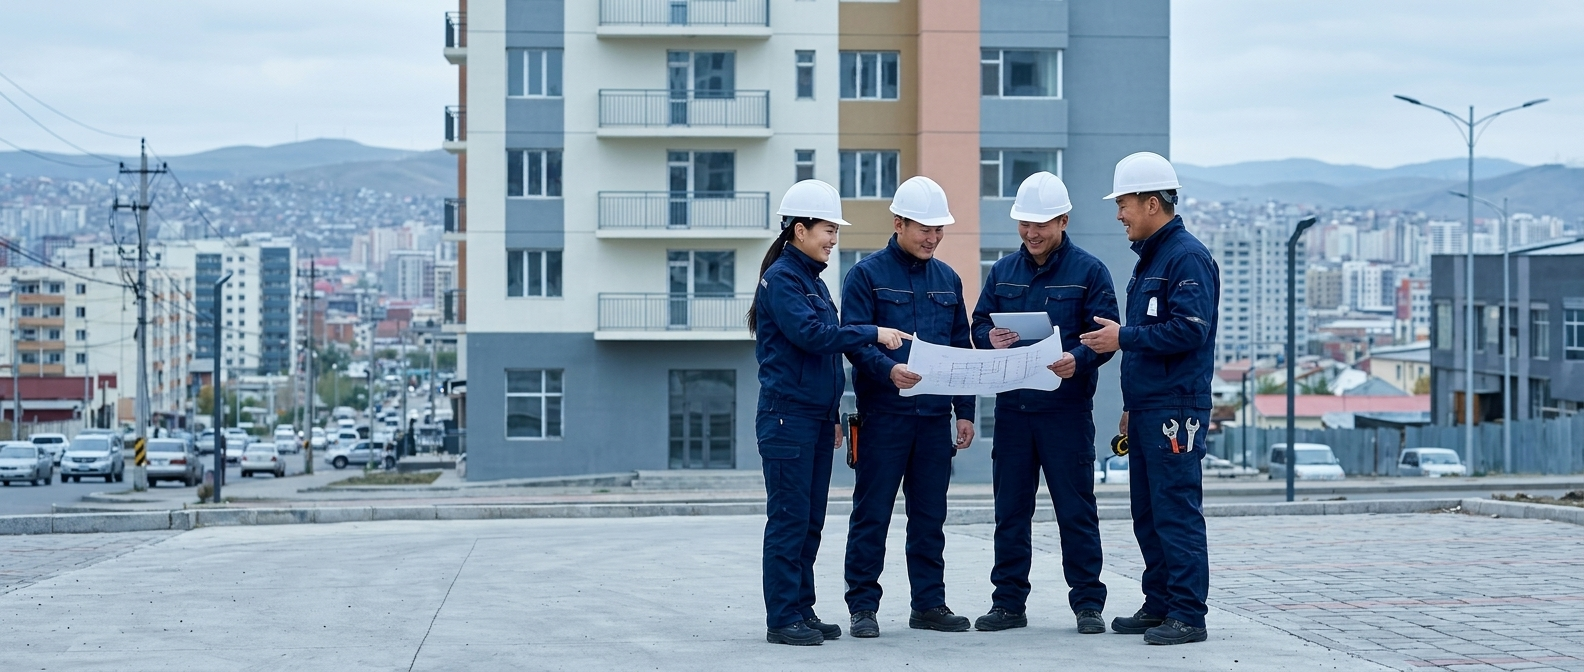
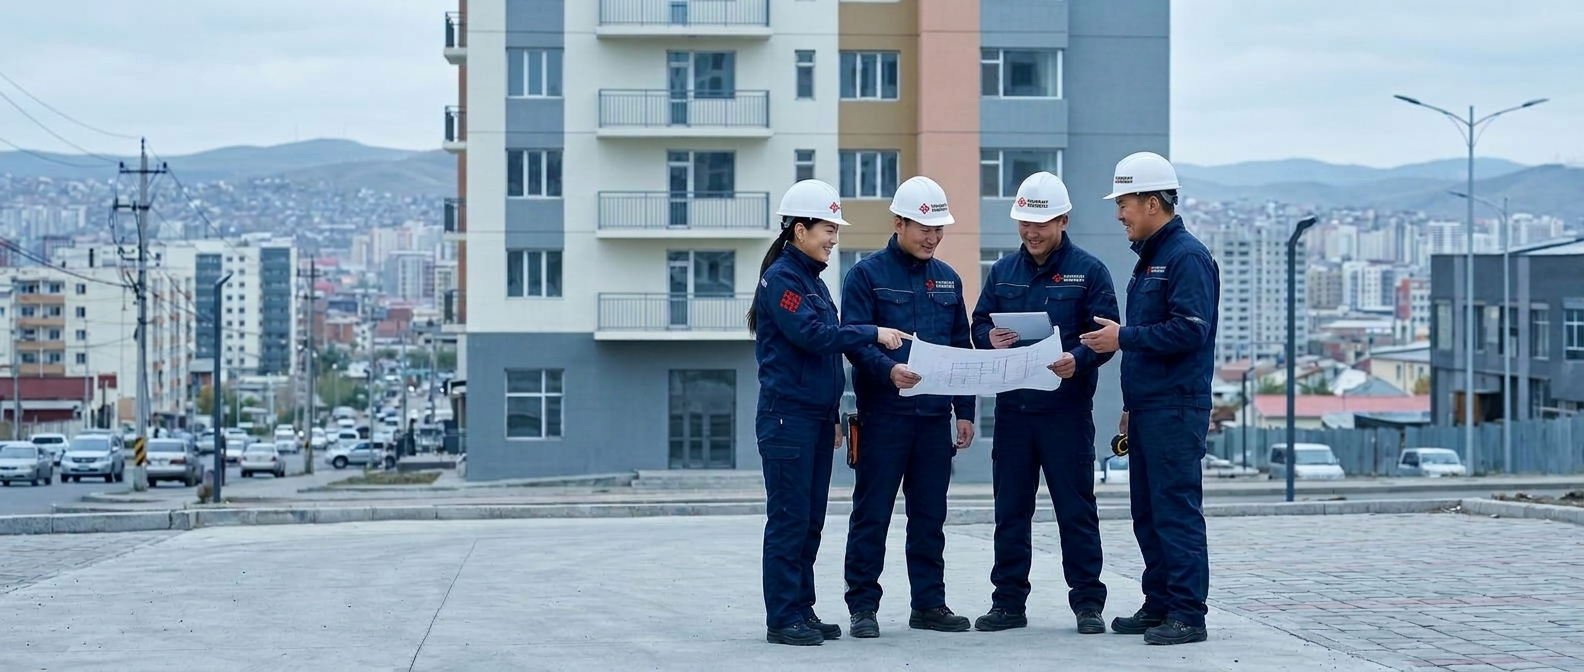
Replace team photo and blueprint with new branded images
Team photo now shows the company logo on jackets and helmets; blueprint
now shows the building water system with the tank in the basement
(white margins trimmed so it fills the hero card).

diff --git a/components/site/Hero.module.css b/components/site/Hero.module.css
@@ -174,7 +174,7 @@
 .blueprintImage img {
   display: block;
   width: 100%;
-  height: 210px;
+  height: 250px;
   object-fit: contain;
   border-radius: 10px;
 }
